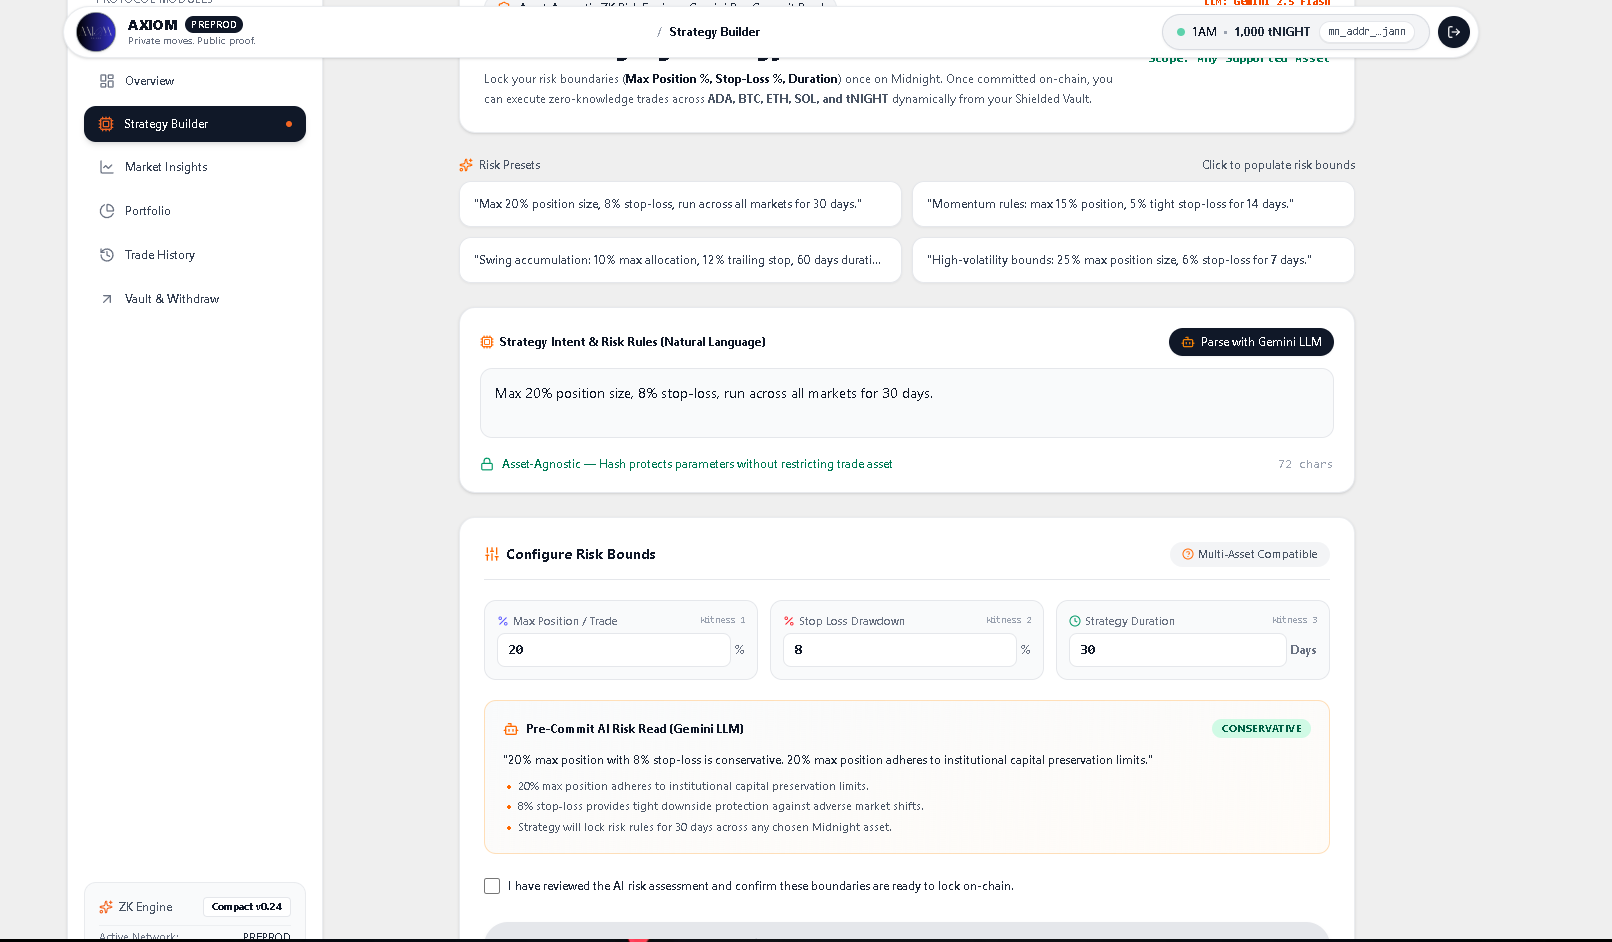
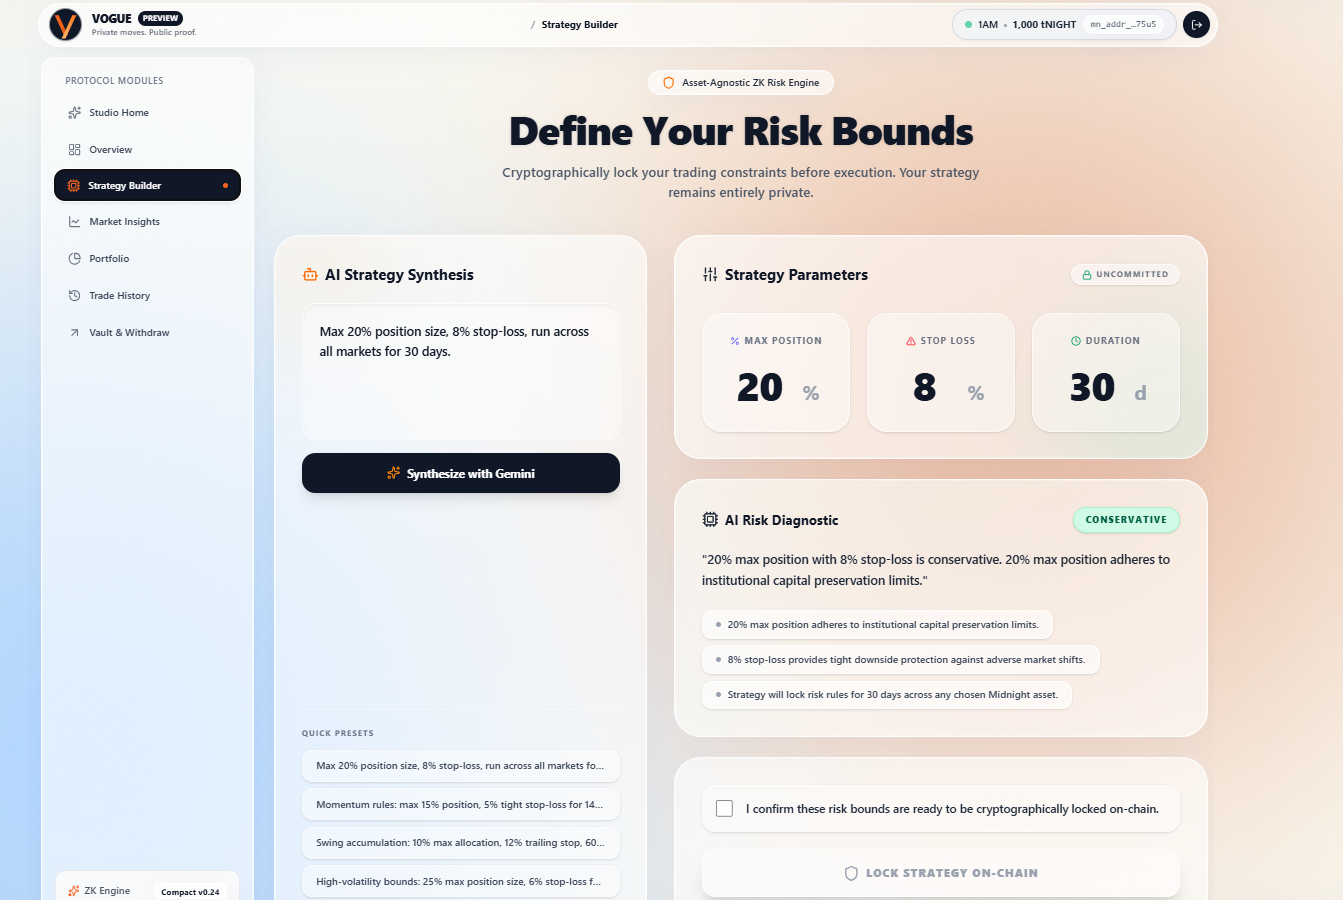
Fix UI compilation issues

diff --git a/src/App.tsx b/src/App.tsx
@@ -25,8 +25,10 @@ import {
   Lock,
   PlusCircle,
   MinusCircle,
-  Clock
+  Clock,
+  ArrowRight
 } from 'lucide-react';
+import { motion } from 'framer-motion';
 
 export function App() {
   const [activeTab, setActiveTab] = useState<string>('landing');

diff --git a/src/components/TradeHistory.tsx b/src/components/TradeHistory.tsx
@@ -420,6 +420,7 @@ export const TradeHistory: React.FC<TradeHistoryProps> = ({
             </table>
           </div>
         </div>
+        </div>
       )}
     </div>
   );
